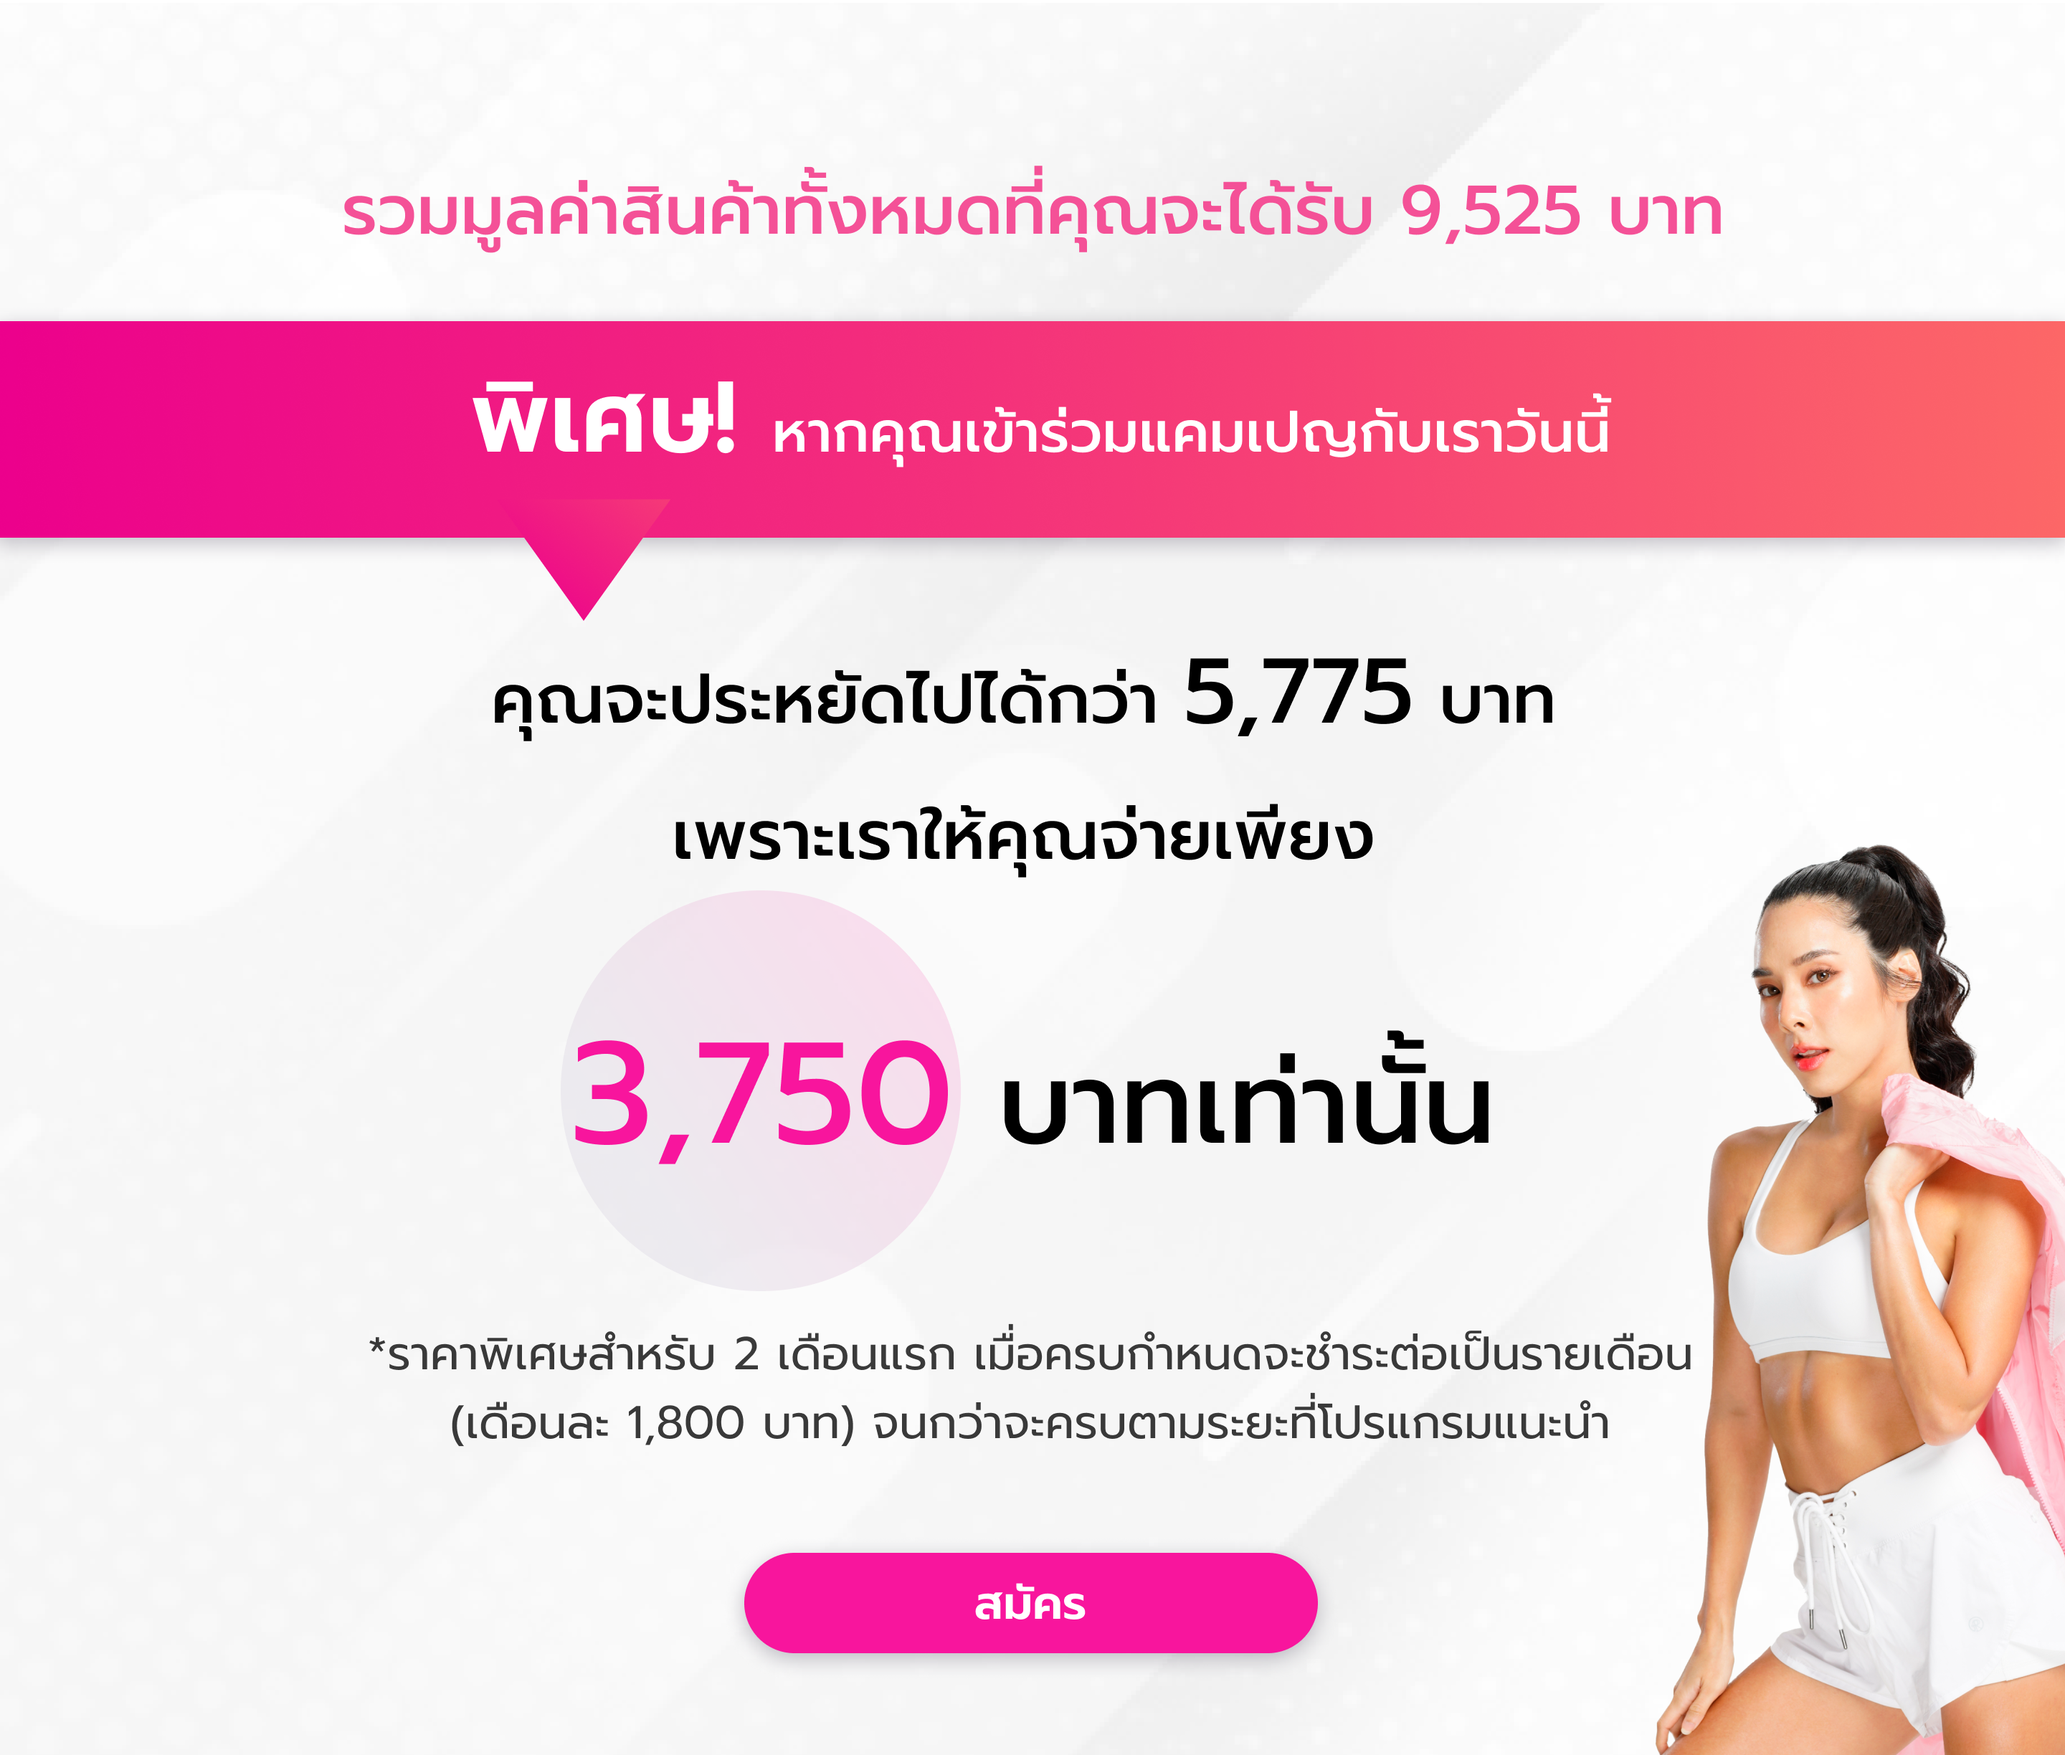
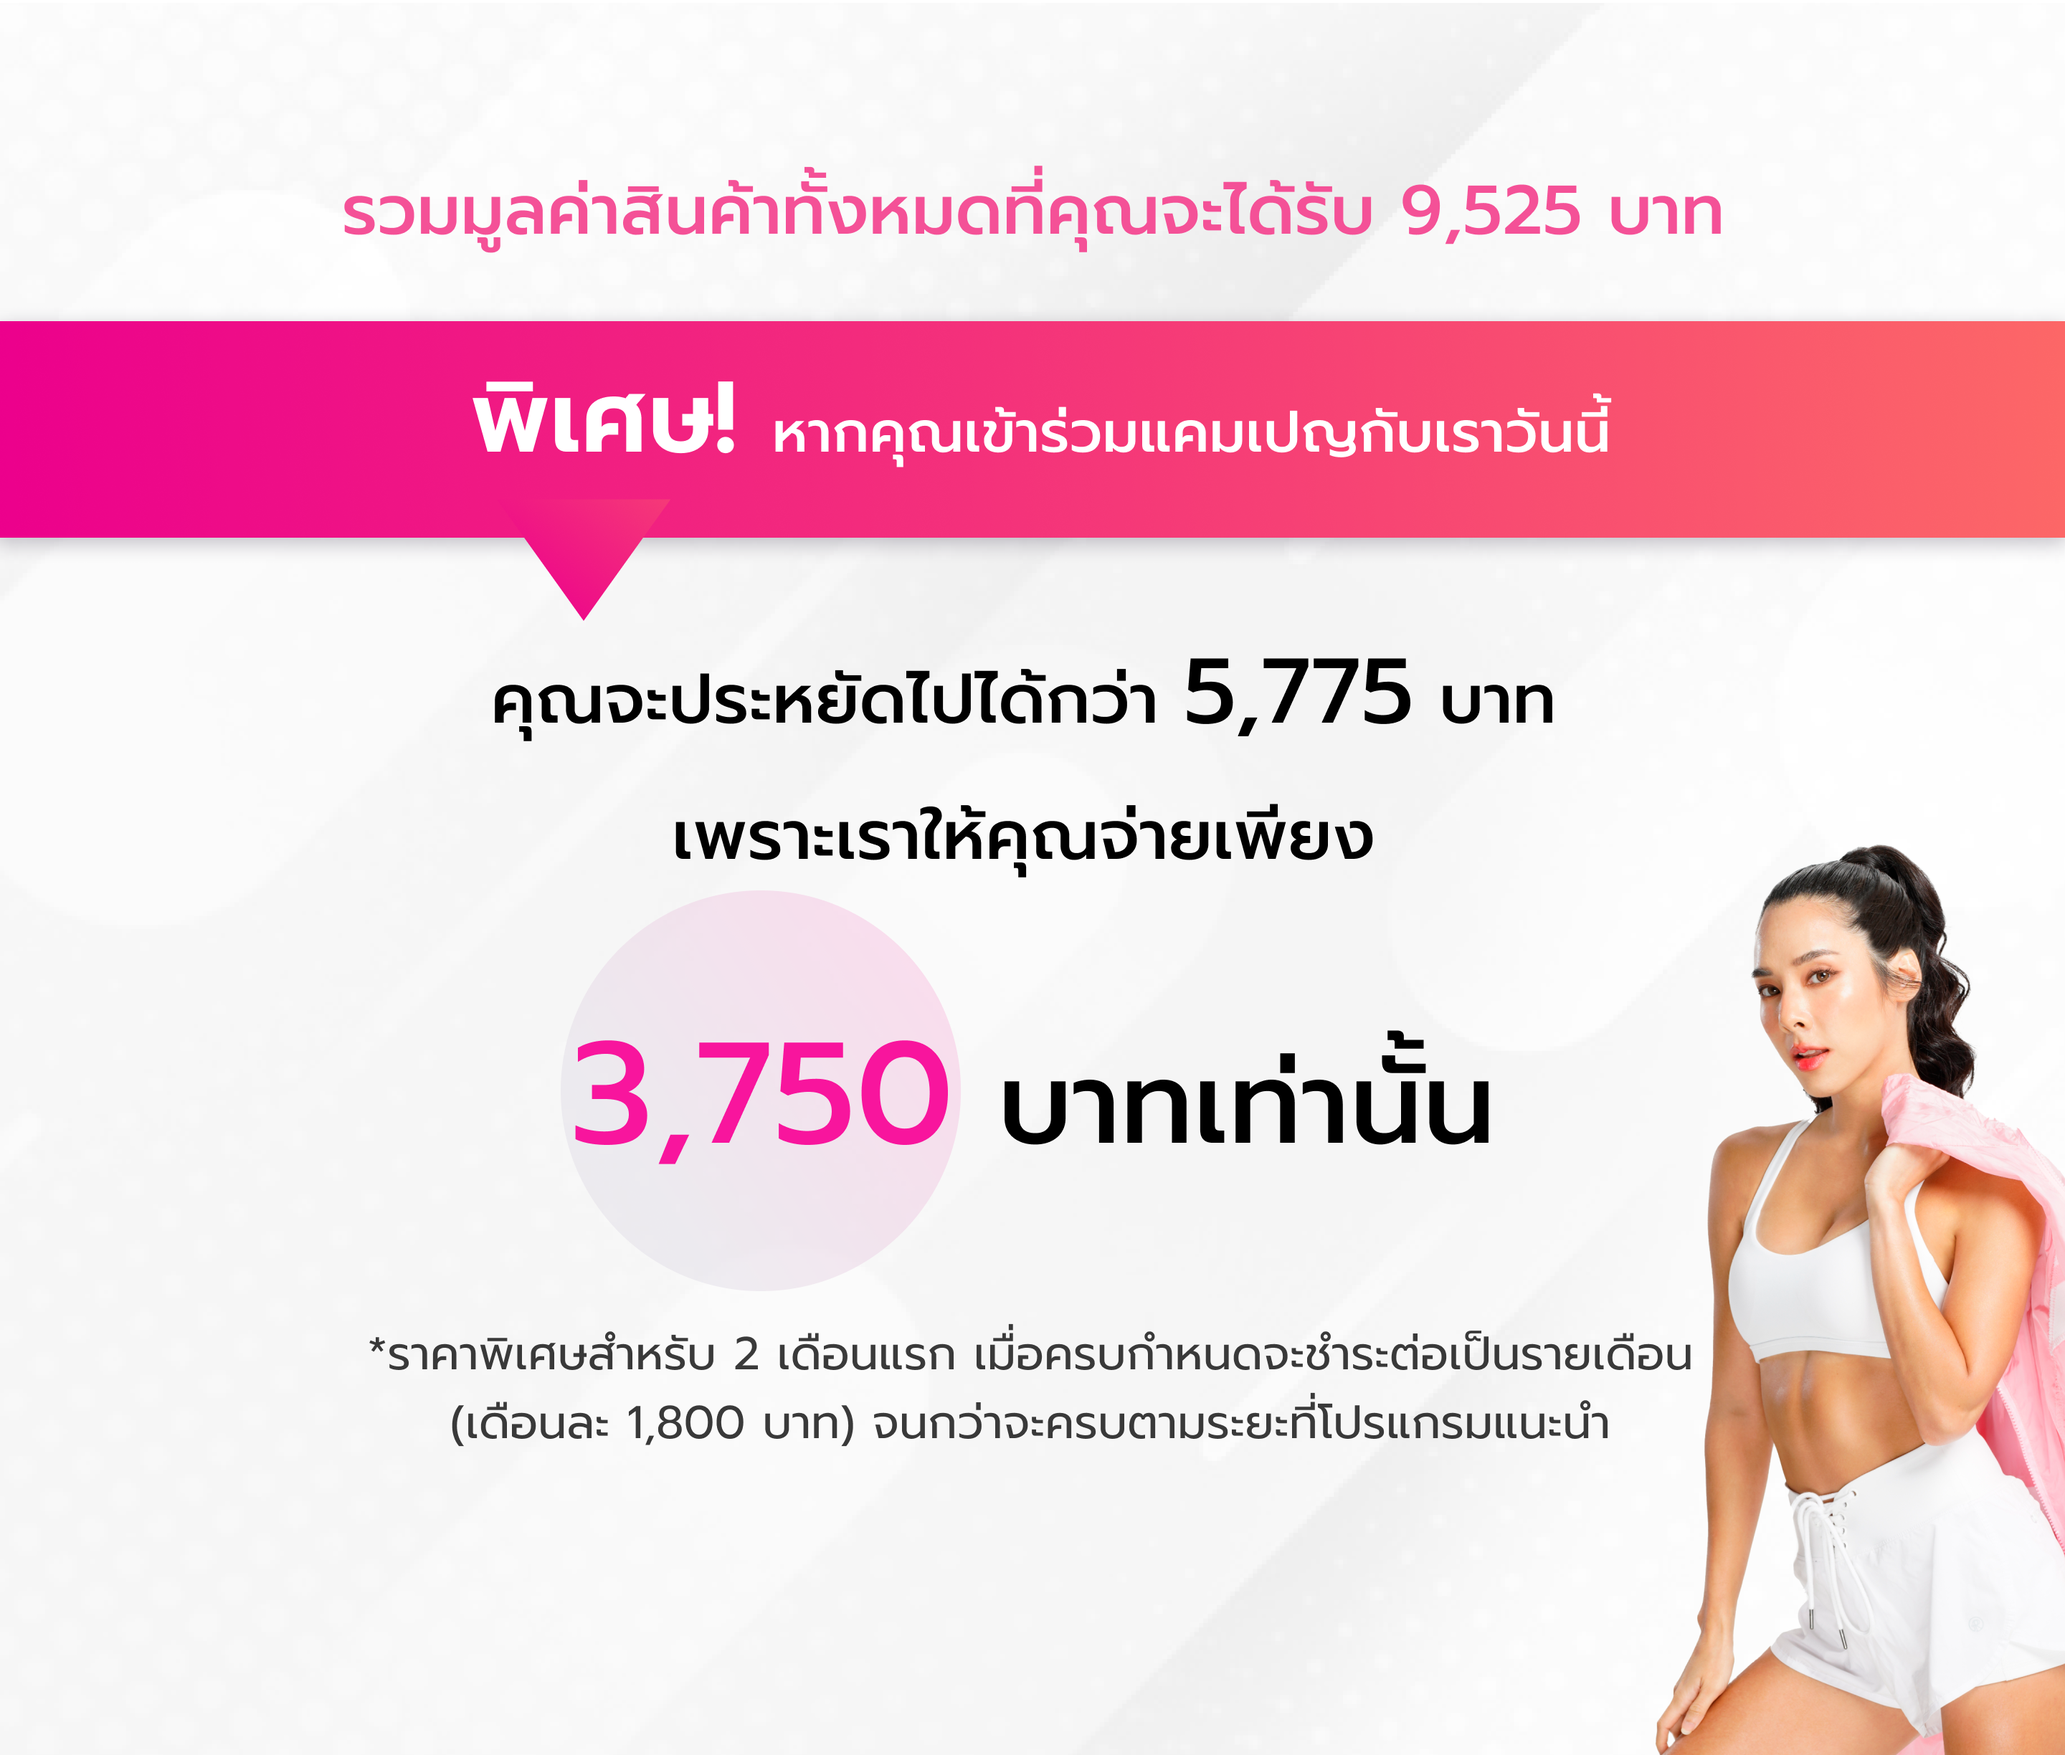
เเก้ปุ่มหน้า home

Changed region(s): [[0.3438, 0.8693, 0.6562, 0.9624]]

diff --git a/src/views/information/home.js b/src/views/information/home.js
@@ -169,26 +169,56 @@ class Home extends React.Component {
           <img src={part6} alt="vector" className="home-image" />
           <img src={part7} alt="vector" className="home-image" />
           <img src={part8} alt="vector" className="home-image" />
-          <img src={part9} alt="vector" className="home-image" />
+          <div className="part16">
+            <img src={part9} alt="vector" className="home-image part16-1" />
+            <a
+               onClick={() => this.props.history.push("/programPackage")}
+              className="btn  bold button-pinkLogin3 col-4 col-sm-4  col-md-4 col-lg-4"
+              type="button">
+              เริ่มคำนวณ
+            </a>
+          </div>
           <img src={part10} alt="vector" className="home-image" />
-          <img src={part11} alt="vector" className="home-image" />
+          <div className="box-home">
+            <div className="top-Home">
+              <p className="textHome bold">
+                สำหรับผู้ที่มีปัญหาสุขภาพ แต่ไม่อยากที่จะพลาดแคมเปญนี้
+              </p>
+              <p className="textHome2 bold">
+                สามารถรับคำแนะนำลงทะเบียนปรึกษาผู้เชี่ยวชาญได้ที่
+              </p>
+              <div className="d-grid gap-2  mx-auto   col-12 col-sm-12  col-md-12 col-lg-12 center ">
+                <a
+                  href="https://fittowhey.com/8week/complete"
+                  className="btn bottom-pinkLogin2 bold"
+                  type="button"
+                >
+                  ขอคำปรึกษา
+                </a>
+              </div>
+            </div>
+          </div>
           <img src={review} alt="vector" className="home-image" />
           <img src={part13} alt="vector" className="home-image" />
-          <img
-            src={price}
-            alt="vector"
-            className="home-image"
-            data-bs-toggle="modal"
-            data-bs-target="#exampleModal"
-          />
+          <div className="part16">
+            <img src={price} alt="vector" className="home-image part16-1" />
+            <a
+               onClick={() => this.props.history.push("/programPackage")}
+              className="btn  bold button-pinkLogin2 col-4 col-sm-4  col-md-4 col-lg-4"
+              type="button">
+              สมัคร
+            </a>
+          </div>
           <img src={countdown} alt="vector" className="home-image" />
-          <img
-            src={part16}
-            alt="vector"
-            className="home-image"
-            data-bs-toggle="modal"
-            data-bs-target="#exampleModal"
-          />
+          <div className="part16">
+            <img src={part16} alt="vector" className="home-image part16-1" />
+            <a
+              href="https://fittowhey.com/8week/complete"
+              className="btn  bold button-pinkLogin col-4 col-sm-4  col-md-4 col-lg-4"
+              type="button">
+              คลิก
+            </a>
+          </div>
         </div>
 
         <div className="win-540">
@@ -215,26 +245,56 @@ class Home extends React.Component {
           <img src={part6512} alt="vector" className="home-image" />
           <img src={part7512} alt="vector" className="home-image" />
           <img src={part8512} alt="vector" className="home-image" />
-          <img src={part9512} alt="vector" className="home-image" />
+          <div className="part16">
+            <img src={part9512} alt="vector" className="home-image part16-1" />
+            <a
+               onClick={() => this.props.history.push("/programPackage")}
+              className="btn  bold button2-pinkLogin512 col-10 col-sm-10  col-md-4 col-lg-4"
+             >
+              เริ่มคำนวณ
+            </a>
+          </div>
           <img src={part10512} alt="vector" className="home-image" />
-          <img src={part11512} alt="vector" className="home-image" />
+          <div className="box-home">
+            <div className="top-Home">
+              <p className="textHome bold">
+                สำหรับผู้ที่มีปัญหาสุขภาพ แต่ไม่อยากที่จะพลาดแคมเปญนี้
+              </p>
+              <p className="textHome2 bold">
+                สามารถรับคำแนะนำลงทะเบียนปรึกษาผู้เชี่ยวชาญได้ที่
+              </p>
+              <div className="d-grid gap-2  mx-auto   col-12 col-sm-12  col-md-12 col-lg-12 center ">
+                <a
+                  href="https://fittowhey.com/8week/complete"
+                  className="btn bottom-pinkLogin2 bold"
+                  type="button"
+                >
+                  ขอคำปรึกษา
+                </a>
+              </div>
+            </div>
+          </div>
           <img src={review512} alt="vector" className="home-image" />
           <img src={part13512} alt="vector" className="home-image" />
-          <img
-            src={price512}
-            alt="vector"
-            className="home-image"
-            data-bs-toggle="modal"
-            data-bs-target="#exampleModal"
-          />
+          <div className="part16">
+            <img src={price512} alt="vector" className="home-image part16-1" />
+            <a
+               onClick={() => this.props.history.push("/programPackage")}
+              className="btn  bold button1-pinkLogin512 col-7 col-sm-7">
+              สมัคร
+            </a>
+          </div>
           <img src={countdown512} alt="vector" className="home-image" />
-          <img
-            src={part16512}
-            alt="vector"
-            className="home-image"
-            data-bs-toggle="modal"
-            data-bs-target="#exampleModal"
-          />
+         
+          <div className="part16">
+            <img src={part16512} alt="vector" className="home-image " />
+            <a
+              href="https://fittowhey.com/8week/complete"
+              className="btn  bold button-pinkLogin512 col-10 col-sm-10"
+              type="button">
+              คลิก
+            </a>
+          </div>
         </div>
 
         <div

diff --git a/src/App.css b/src/App.css
@@ -72,7 +72,7 @@
     border-bottom: 3px solid #4f4f4f;
   }
 
-  .bottom-pinkLogin2 {
+  .bottom-pinkLogin2,.bottom-pinkLogin2:hover,.bottom-pinkLogin2:focus {
     background-color: #F8159D !important;
     margin-top: 40px;
     height: 70px;
@@ -90,6 +90,7 @@
   .win-541 {
     display: none !important;
   }
+
   .padding-leftRight2 {
     padding-left: 10px !important;
     padding-right: 20px !important;
@@ -297,6 +298,12 @@
   .food_supplementHead {
     padding-top: 50px !important;
 
+  }
+  .button-pinkLogin2 {
+    margin-top: -13% !important;
+  }
+  .button-pinkLogin3 {
+    margin-top: -13% !important;
   }
 
 }
@@ -2886,7 +2893,7 @@ tr:last-child td:last-child {
 
 .box-home {
   width: 100%;
-  height: 350px;
+  height: auto;
   background-color: #FFFFFF;
 }
 
@@ -2905,7 +2912,7 @@ tr:last-child td:last-child {
   color: #E25E96;
 }
 
-.bottom-pinkLogin2 {
+.bottom-pinkLogin2,.bottom-pinkLogin2:hover,.bottom-pinkLogin2:focus {
   background-color: #F8159D !important;
   margin-top: 40px;
   height: 70px;
@@ -2927,18 +2934,94 @@ tr:last-child td:last-child {
 .a_link:focus {
   color: #E25E96;
 }
+
 .exercise-size {
   font-size: 16px;
   font-weight: bold;
 }
+
 .exercise-size2 {
   font-size: 16px;
   padding-left: 20px;
   font-weight: bold;
 }
+
 .result-static {
   padding-top: 50px;
   color: #000000;
   font-size: 18px;
 }
 
+.part16 {
+  /*  background-color: #0d6efd; */
+  position: relative;
+
+
+}
+
+.part16-1 {
+  position: relative;
+  z-index: 0 !important;
+}
+
+.button-pinkLogin,.button-pinkLogin:hover,.button-pinkLogin:focus {
+  background-color: #F8159D !important;
+  margin-top: 40px;
+  color: #ffffff !important;
+  border-radius: 40px;
+  font-size: 32px !important;
+  position: relative;
+  margin-top: -15%;
+  margin-right: 12%;
+  float: right;
+}
+.button-pinkLogin2, .button-pinkLogin2:hover, .button-pinkLogin2:focus {
+  background-color: #F8159D !important;
+  margin-top: 40px;
+  color: #ffffff !important;
+  border-radius: 40px;
+  font-size: 32px !important;
+  position: relative;
+  margin-top: -10%;
+  margin-left: 30%;
+  float: left;
+}
+.button-pinkLogin3,.button-pinkLogin3:hover,.button-pinkLogin3:focus  {
+  background-color: #F8159D !important;
+  margin-top: 40px;
+  color: #ffffff !important;
+  border-radius: 40px;
+  font-size: 32px !important;
+  position: relative;
+  margin-top: -10%;
+  margin-right: 15%;
+  float: right;
+}
+.button-pinkLogin512,.button-pinkLogin512:hover,.button-pinkLogin512:focus {
+  background-color: #F8159D !important;
+  color: #ffffff !important;
+  border-radius: 40px;
+  font-size: 32px !important;
+  position: relative;
+  margin-top: -45%;
+  margin-left: 10%;
+}
+.button1-pinkLogin512,.button1-pinkLogin512:hover,.button1-pinkLogin512:focus {
+  background-color: #F8159D !important;
+  color: #ffffff !important;
+  border-radius: 40px;
+  font-size: 32px !important;
+  position: absolute;
+  margin-top: 290%;
+  margin-left: -95%;
+}
+
+.button2-pinkLogin512,.button2-pinkLogin512:hover,.button2-pinkLogin512:focus {
+  background-color: #F8159D !important;
+  color: #ffffff !important;
+  border-radius: 40px;
+  font-size: 32px !important;
+  position: absolute;
+  margin-top: 160%;
+  margin-left: -90%;
+}
